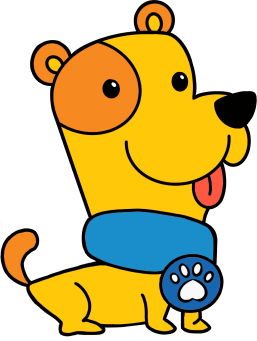
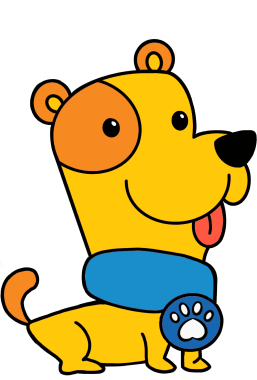
add changes to speech bubble

diff --git a/src/Pages/Home.js b/src/Pages/Home.js
@@ -2,7 +2,7 @@ import React from 'react';
 import NavBar from '../Components/NavBar.js';
 import {useStyles} from '../styles/HomeClasses.js';
 import Grid from '@material-ui/core/Grid';
-import mascot from '../images/mascot.png';
+import Mascot from '../images/mascot.png';
 import PetOfTheDay from '../Components/PetOfTheDay.js';
 import RedInfoBox from '../Components/RedInfoBox.js';
 import SpeechBubble from '../Components/SpeechBubble.js'
@@ -34,7 +34,7 @@ const HomePage = () => {
             <Grid className={classes.bottomDiv}>
                 <h1 className={classes.funFact}>Fun Fact of the Day!</h1>
                 <Grid container item className={classes.mascotDiv}>
-                    <img item className={classes.mascot} src={mascot} alt='mascot'/>
+                    <img item className={classes.mascot} src={Mascot} alt='mascot'/>
                     <SpeechBubble item/>
                 </Grid>
             </Grid>

diff --git a/src/styles/HomeClasses.js b/src/styles/HomeClasses.js
@@ -29,7 +29,6 @@ bottomDiv: {
 },
 funFact: {
     fontSize: 48,
-    width: '100%',
     paddingTop: '8%',
     paddingLeft: '20%',
     margin: 0,
@@ -42,8 +41,8 @@ mascotDiv: {
 },
 mascot: {
     width: 255,
-    height: 340,
-    paddingRight: 50
+    height: 380,
+    paddingRight: 0
 },
 }));
 export { useStyles };
